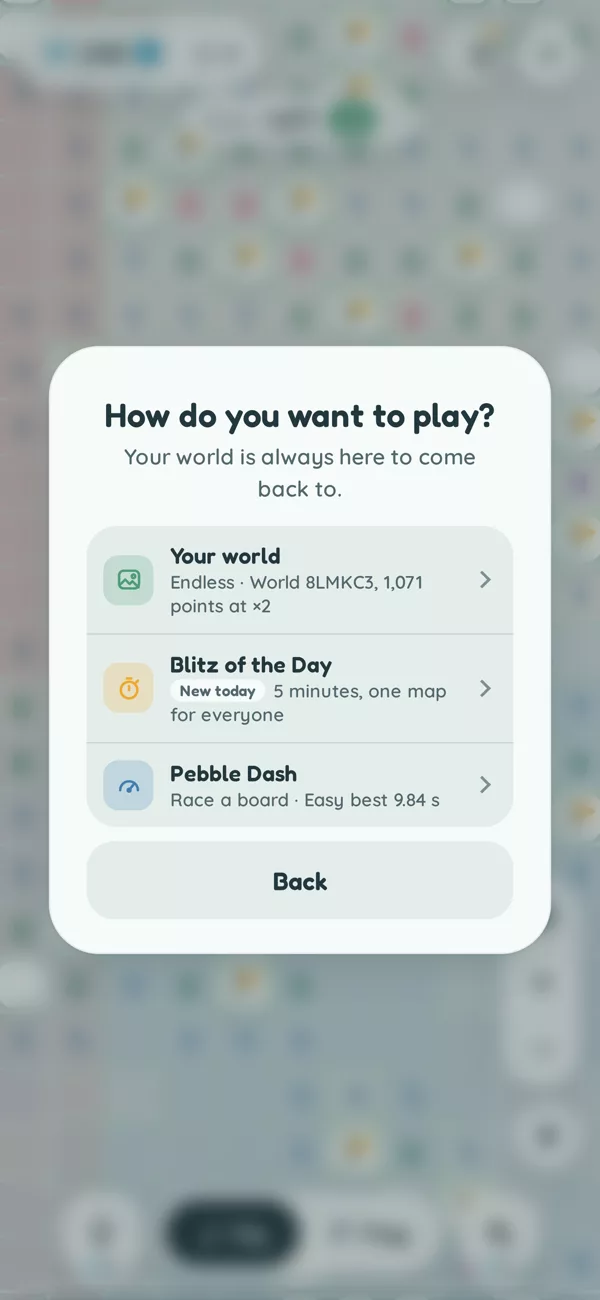
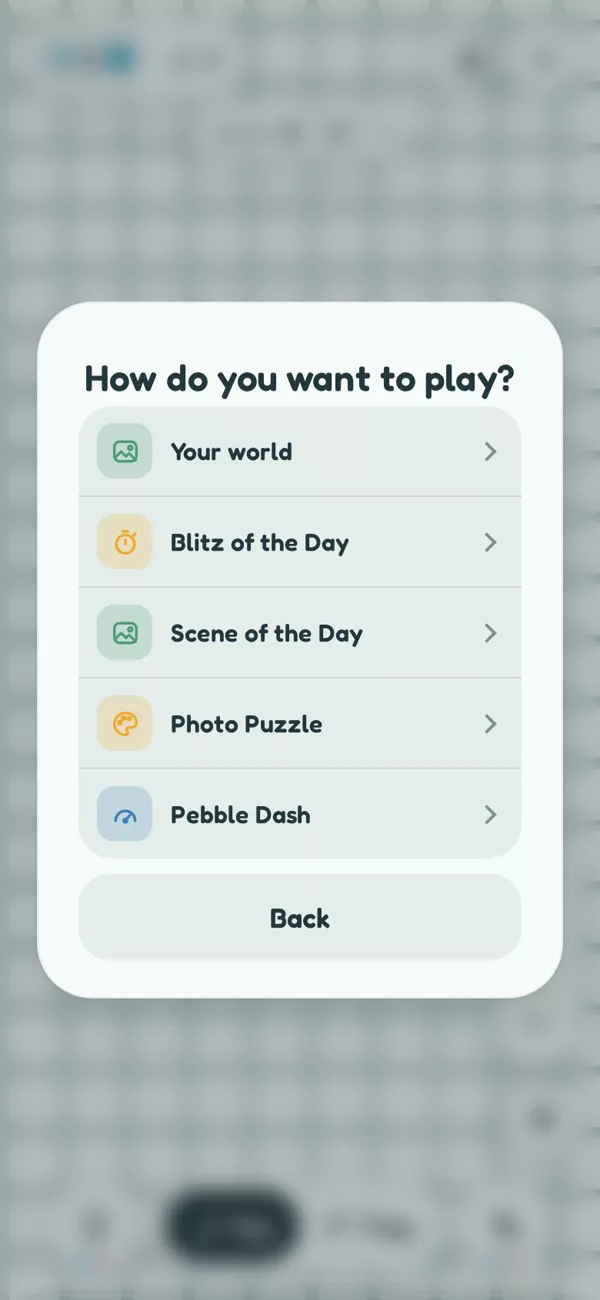
Website for the launch version (1.0.1, build 28): five ways to play, Scene of the Day and Photo Puzzle screens, iPhone and Android support; privacy covers Photo Puzzle, Android and the Android Blitz leaderboard, with a data-deletion section
Claude-Session: https://claude.ai/code/session_013hDwvzvNCT5dMjhZV7YZMb

diff --git a/index.html b/index.html
@@ -4,7 +4,7 @@
 <meta charset="utf-8">
 <meta name="viewport" content="width=device-width, initial-scale=1">
 <title>Pebblefield</title>
-<meta name="description" content="Pebblefield is calm, no-guessing Minesweeper that never runs out of ground. Every tile you clear paints part of a hidden 8-bit scene. Dig your endless world, race the clock in Pebble Dash, or take on the Blitz of the Day.">
+<meta name="description" content="Pebblefield is calm, no-guessing Minesweeper that never runs out of ground. Every tile you clear paints part of a hidden 8-bit scene. Dig your endless world, take on the Blitz of the Day, paint the Scene of the Day, turn your own photo into a puzzle, or race the clock in Pebble Dash. For iPhone and Android.">
 <link rel="icon" type="image/svg+xml" href="icon.svg">
 <link rel="apple-touch-icon" href="apple-touch-icon.png">
 <link rel="stylesheet" href="fonts/fonts.css">
@@ -40,7 +40,7 @@
   .screens figcaption b{ display:block; font:600 20px/1.2 Fredoka, ui-rounded, system-ui, sans-serif; }
   .screens figcaption span{ color:var(--muted); font-size:14px; }
   .screens img{ display:block; width:100%; height:auto; border-radius:28px; border:6px solid var(--ink); box-shadow:0 14px 30px rgba(20,40,45,.25); background:var(--card); }
-  /* on wide screens the row runs the full window width, so all six fit side by side */
+  /* on wide screens the row runs the full window width */
   @media (min-width:900px){ .screens{ margin-left:calc(50% - 50vw); margin-right:calc(50% - 50vw); padding-left:24px; padding-right:24px; justify-content:safe center; } .screens figure{ flex-basis:180px; } }
   /* scenes: the real pixel-art scenes, a few kept as a mystery */
   .wall{ display:grid; grid-template-columns:repeat(5,1fr); gap:8px; }
@@ -63,7 +63,7 @@
     <img src="icon.svg" alt="Pebblefield app icon">
     <h1 class="wordmark">Pebblefield</h1>
     <p class="tagline">Calm Minesweeper that<br>Paints a Hidden Picture.</p>
-    <span class="badge">Coming soon to the App Store</span>
+    <span class="badge">Coming soon to the App Store and Google Play</span>
     <nav class="social" aria-label="Pebblefield on social media">
       <a href="https://www.tiktok.com/@pebblefield" rel="noopener"><svg viewBox="0 0 24 24" fill="none" stroke="currentColor" stroke-width="2.1" stroke-linecap="round" stroke-linejoin="round"><path d="M13.5 3v11.6a3.6 3.6 0 1 1-3.6-3.6"/><path d="M13.5 3c.5 2.7 2.4 4.5 5.2 4.8"/></svg><span>@pebblefield</span></a>
       <a href="https://www.instagram.com/pebblefieldinfinite/" rel="noopener"><svg viewBox="0 0 24 24" fill="none" stroke="currentColor" stroke-width="2.1" stroke-linecap="round" stroke-linejoin="round"><rect x="3.5" y="3.5" width="17" height="17" rx="5"/><circle cx="12" cy="12" r="4"/><circle cx="17.2" cy="6.8" r="0.6" fill="currentColor"/></svg><span>@pebblefieldinfinite</span></a>
@@ -71,7 +71,7 @@
   </section>
 
   <section class="screens" aria-label="Screens from the game">
-    <figure><figcaption><b>Watch it paint</b><span>Every tile is a pixel</span></figcaption><img src="shots/1.webp" alt="Watch it paint" loading="lazy" width="600" height="1300"></figure><figure><figcaption><b>Three ways to play</b><span>Endless, Blitz and Dash</span></figcaption><img src="shots/2.webp" alt="Three ways to play" loading="lazy" width="600" height="1300"></figure><figure><figcaption><b>Never guess</b><span>Stuck? A safe tile glows</span></figcaption><img src="shots/3.webp" alt="Never guess" loading="lazy" width="600" height="1300"></figure><figure><figcaption><b>Race the clock</b><span>Pebble Dash time trials</span></figcaption><img src="shots/4.webp" alt="Race the clock" loading="lazy" width="600" height="1300"></figure><figure><figcaption><b>Blitz every day</b><span>One map for everyone</span></figcaption><img src="shots/5.webp" alt="Blitz every day" loading="lazy" width="600" height="1300"></figure><figure><figcaption><b>Make it yours</b><span>Five style sets, Retro too</span></figcaption><img src="shots/6.webp" alt="Make it yours" loading="lazy" width="600" height="1300"></figure>
+    <figure><figcaption><b>Watch it paint</b><span>Every tile is a pixel</span></figcaption><img src="shots/1.webp" alt="Watch it paint" loading="lazy" width="600" height="1300"></figure><figure><figcaption><b>Five ways to play</b><span>Pick your mood today</span></figcaption><img src="shots/2.webp" alt="Five ways to play" loading="lazy" width="600" height="1300"></figure><figure><figcaption><b>A scene a day</b><span>One picture for all</span></figcaption><img src="shots/7.webp" alt="Scene of the Day" loading="lazy" width="600" height="1300"></figure><figure><figcaption><b>Paint your photo</b><span>It stays on your phone</span></figcaption><img src="shots/8.webp" alt="Photo Puzzle" loading="lazy" width="600" height="1300"></figure><figure><figcaption><b>Never guess</b><span>Stuck? A safe tile glows</span></figcaption><img src="shots/3.webp" alt="Never guess" loading="lazy" width="600" height="1300"></figure><figure><figcaption><b>Race the clock</b><span>Pebble Dash time trials</span></figcaption><img src="shots/4.webp" alt="Race the clock" loading="lazy" width="600" height="1300"></figure><figure><figcaption><b>Blitz every day</b><span>One map for everyone</span></figcaption><img src="shots/5.webp" alt="Blitz every day" loading="lazy" width="600" height="1300"></figure><figure><figcaption><b>Make it yours</b><span>Five style sets, Retro too</span></figcaption><img src="shots/6.webp" alt="Make it yours" loading="lazy" width="600" height="1300"></figure>
   </section>
 
   <section class="card scenes-card">
@@ -79,25 +79,25 @@
     <div class="wall"><img class="scene" src="scenes/dawn-lake.png" alt="Dawn Lake" title="Dawn Lake" loading="lazy" width="48" height="48"><img class="scene" src="scenes/bamboo-grove.png" alt="Bamboo Grove" title="Bamboo Grove" loading="lazy" width="48" height="48"><img class="scene" src="scenes/blossom-hill.png" alt="Blossom Hill" title="Blossom Hill" loading="lazy" width="48" height="48"><span class="scene q" aria-hidden="true">?</span><img class="scene" src="scenes/moonlit-pagoda.png" alt="Moonlit Pagoda" title="Moonlit Pagoda" loading="lazy" width="48" height="48"><img class="scene" src="scenes/rice-terraces.png" alt="Rice Terraces" title="Rice Terraces" loading="lazy" width="48" height="48"><img class="scene" src="scenes/sand-garden.png" alt="Sand Garden" title="Sand Garden" loading="lazy" width="48" height="48"><img class="scene" src="scenes/sunset-sea.png" alt="Sunset Sea" title="Sunset Sea" loading="lazy" width="48" height="48"><span class="scene q" aria-hidden="true">?</span><img class="scene" src="scenes/maple-valley.png" alt="Maple Valley" title="Maple Valley" loading="lazy" width="48" height="48"><img class="scene" src="scenes/lantern-festival.png" alt="Lantern Festival" title="Lantern Festival" loading="lazy" width="48" height="48"><img class="scene" src="scenes/misty-tea-fields.png" alt="Misty Tea Fields" title="Misty Tea Fields" loading="lazy" width="48" height="48"><span class="scene q" aria-hidden="true">?</span><img class="scene" src="scenes/wisteria-bridge.png" alt="Wisteria Bridge" title="Wisteria Bridge" loading="lazy" width="48" height="48"><img class="scene" src="scenes/hidden-waterfall.png" alt="Hidden Waterfall" title="Hidden Waterfall" loading="lazy" width="48" height="48"><img class="scene" src="scenes/sacred-mountain.png" alt="Sacred Mountain" title="Sacred Mountain" loading="lazy" width="48" height="48"><span class="scene q" aria-hidden="true">?</span><img class="scene" src="scenes/snowy-hot-spring.png" alt="Snowy Hot Spring" title="Snowy Hot Spring" loading="lazy" width="48" height="48"><img class="scene" src="scenes/firefly-meadow.png" alt="Firefly Meadow" title="Firefly Meadow" loading="lazy" width="48" height="48"><span class="scene q" aria-hidden="true">?</span><img class="scene" src="scenes/rainy-rooftops.png" alt="Rainy Rooftops" title="Rainy Rooftops" loading="lazy" width="48" height="48"><img class="scene" src="scenes/sea-of-clouds.png" alt="Sea of Clouds" title="Sea of Clouds" loading="lazy" width="48" height="48"><span class="scene q" aria-hidden="true">?</span><img class="scene" src="scenes/temple-steps.png" alt="Temple Steps" title="Temple Steps" loading="lazy" width="48" height="48"><img class="scene" src="scenes/lighthouse-cove.png" alt="Lighthouse Cove" title="Lighthouse Cove" loading="lazy" width="48" height="48"></div>
   </section>
 
-  <ul class="facts"><li><svg viewBox="0 0 24 24" fill="none" stroke="currentColor" stroke-width="2.2" stroke-linecap="round" stroke-linejoin="round"><path d="M12 3l7.5 3v5.5c0 4.5-3.2 8-7.5 9.5-4.3-1.5-7.5-5-7.5-9.5V6z"/><path d="M9 12l2.2 2.2L15.5 10"/></svg><b>No guessing</b></li><li><svg viewBox="0 0 24 24" fill="none" stroke="currentColor" stroke-width="2.2" stroke-linecap="round" stroke-linejoin="round"><rect x="3" y="3" width="7.5" height="7.5" rx="2"/><rect x="13.5" y="3" width="7.5" height="7.5" rx="2"/><rect x="3" y="13.5" width="7.5" height="7.5" rx="2"/><circle cx="17.25" cy="17.25" r="3.75"/></svg><b>Three ways to play</b></li><li><svg viewBox="0 0 24 24" fill="none" stroke="currentColor" stroke-width="2.3" stroke-linejoin="round"><rect x="3" y="5" width="18" height="14" rx="4"/><path d="M10 9.5v5l4.5-2.5z" fill="currentColor"/></svg><b>Ads only if you choose</b></li><li><svg viewBox="0 0 24 24" fill="none" stroke="currentColor" stroke-width="2.2" stroke-linecap="round" stroke-linejoin="round"><path d="M4 12a8 8 0 1 0 2.4-5.7"/><path d="M4 4.5v4h4"/></svg><b>Saves to iCloud</b></li></ul>
+  <ul class="facts"><li><svg viewBox="0 0 24 24" fill="none" stroke="currentColor" stroke-width="2.2" stroke-linecap="round" stroke-linejoin="round"><path d="M12 3l7.5 3v5.5c0 4.5-3.2 8-7.5 9.5-4.3-1.5-7.5-5-7.5-9.5V6z"/><path d="M9 12l2.2 2.2L15.5 10"/></svg><b>No guessing</b></li><li><svg viewBox="0 0 24 24" fill="none" stroke="currentColor" stroke-width="2.2" stroke-linecap="round" stroke-linejoin="round"><rect x="3" y="3" width="7.5" height="7.5" rx="2"/><rect x="13.5" y="3" width="7.5" height="7.5" rx="2"/><rect x="3" y="13.5" width="7.5" height="7.5" rx="2"/><circle cx="17.25" cy="17.25" r="3.75"/></svg><b>Five ways to play</b></li><li><svg viewBox="0 0 24 24" fill="none" stroke="currentColor" stroke-width="2.3" stroke-linejoin="round"><rect x="3" y="5" width="18" height="14" rx="4"/><path d="M10 9.5v5l4.5-2.5z" fill="currentColor"/></svg><b>Ads only if you choose</b></li><li><svg viewBox="0 0 24 24" fill="none" stroke="currentColor" stroke-width="2.2" stroke-linecap="round" stroke-linejoin="round"><path d="M4 12a8 8 0 1 0 2.4-5.7"/><path d="M4 4.5v4h4"/></svg><b>Back up your progress</b></li></ul>
 
   <section class="card" id="support">
     <h2>Support</h2>
     <details>
       <summary>How do I restore my Commuter Pass?</summary>
-      <p>Open the menu (the two lines at the top right) and tap Restore purchases. It is also at the bottom of the shop. Use the same Apple ID you bought it with. Glints and Multiplier Savers are not restored this way: they stay with your progress, which iCloud keeps safe.</p>
+      <p>Open the menu (the two lines at the top right) and tap Restore purchases. It is also at the bottom of the shop. Use the same Apple ID (iPhone) or Google account (Android) you bought it with. Glints and Multiplier Savers are not restored this way: they stay with your progress (see moving to a new phone below).</p>
     </details>
     <details>
       <summary>How do I cancel my Commuter Pass?</summary>
-      <p>Subscriptions are managed by Apple. Open the Settings app, tap your name, then Subscriptions, then Pebblefield. Cancel at least 24 hours before the month ends to avoid the next charge. After you cancel, your pass keeps working until the end of the month you have already paid for.</p>
+      <p>On iPhone, subscriptions are managed by Apple: open the Settings app, tap your name, then Subscriptions, then Pebblefield. On Android, they are managed by Google Play: open the Play Store app, tap your profile picture, then Payments and subscriptions, then Subscriptions, then Pebblefield. Cancel at least 24 hours before the month ends to avoid the next charge. After you cancel, your pass keeps working until the end of the month you have already paid for.</p>
     </details>
     <details>
       <summary>What does the Commuter Pass include?</summary>
       <p>No ads: every bonus that would play an ad arrives instantly, including the last save of a multiplier past x20. You also get 10 Glints a day and the Night Train mood. The game itself is the same with or without it.</p>
     </details>
     <details>
-      <summary>How do I move my progress to a new iPhone?</summary>
-      <p>If you are signed in to iCloud, your progress follows you: open Pebblefield on the new iPhone and choose which progress to keep when it asks. Glints and Multiplier Savers you bought always come with you, whichever you choose. You can also open the menu, tap Back up progress, copy the code, and paste it into Restore on the new phone. A Commuter Pass comes back with Restore purchases.</p>
+      <summary>How do I move my progress to a new phone?</summary>
+      <p>On iPhone, if you are signed in to iCloud, your progress follows you: open Pebblefield on the new iPhone and choose which progress to keep when it asks. Glints and Multiplier Savers you bought always come with you, whichever you choose. On any phone, including from iPhone to Android or back, open the menu, tap Back up progress, copy the code, and paste it into Restore on the new phone. A Commuter Pass comes back with Restore purchases on the same kind of phone.</p>
     </details>
     <details>
       <summary>What is a Multiplier Saver?</summary>
@@ -109,11 +109,19 @@
     </details>
     <details>
       <summary>How does the Blitz of the Day work?</summary>
-      <p>Everyone plays the same map with the same twist for five minutes. Your first run each day is the ranked one; replays are practice. During a run, the next place on the board is shown under the timer. The top 5, and everyone in the top 10%, win Glints, paid the next time you open the game. A new Blitz starts every day at midnight Singapore time (16:00 UTC). Rankings use Game Center, so sign in to Game Center to appear on the leaderboard.</p>
+      <p>Everyone plays the same map with the same twist for five minutes. Your first run each day is the ranked one; replays are practice. During a run, the next place on the board is shown under the timer. The top 5, and everyone in the top 10%, win Glints, paid the next time you open the game. A new Blitz starts every day at midnight Singapore time (16:00 UTC). On iPhone, rankings use Game Center, so sign in to Game Center to appear on the leaderboard. On Android, rankings and prizes arrive in an update soon; until then you play the same daily map and earn Glints for taking part.</p>
     </details>
     <details>
       <summary>How do Pebble Dash times work?</summary>
-      <p>Pebble Dash is classic Minesweeper against the clock, in four sizes from Easy to Extreme. Every board can be solved without guessing. The clock starts after your first tap and stops when the last safe tile opens; a mine ends the run. Each size has its own Game Center board of best times, where equal times are ranked by the board's size (3BV). Your first clear of each size each day earns 5 Glints.</p>
+      <p>Pebble Dash is classic Minesweeper against the clock, in four sizes from Easy to Extreme. Every board can be solved without guessing. The clock starts after your first tap and stops when the last safe tile opens; a mine ends the run. On iPhone, each size has its own Game Center board of best times, where equal times are ranked by the board's size (3BV); on Android you chase your own best times. Your first clear of each size each day earns 5 Glints.</p>
+    </details>
+    <details>
+      <summary>How does the Scene of the Day work?</summary>
+      <p>Every day there is a new hidden picture, the same for everyone. Start on the glowing pebble and clear the board; the picture shows through as you dig, and paints itself in full when you finish. A mine adds 20 seconds and the puzzle carries on. Finishing earns 15 Glints, 5 more with no mine, and a growing bonus for a daily streak. Missed a day? Open All days to play any day since launch. A new scene starts at midnight Singapore time.</p>
+    </details>
+    <details>
+      <summary>How does the Photo Puzzle work?</summary>
+      <p>Pick a photo, drag to frame it, and Pebblefield turns it into pixel art hidden under a board. Choose Quick, Detailed or Portrait for the size, and Soft or True colour. Clear the board to paint your photo; a mine adds 10 seconds. One new photo every 24 hours is free (two with the Commuter Pass), then 50 Glints each, and replays are always free. Your photos stay on your phone: they are never uploaded.</p>
     </details>
     <details>
       <summary>Why did part of the field lock?</summary>
@@ -121,7 +129,7 @@
     </details>
     <details>
       <summary>How do I change my ad privacy choices?</summary>
-      <p>Where the law requires it, the menu has an Ad privacy choices button. You can also turn off tracking for all apps in the Settings app under Privacy &amp; Security, then Tracking.</p>
+      <p>Where the law requires it, the menu has an Ad privacy choices button. On iPhone, you can also turn off tracking for all apps in the Settings app under Privacy &amp; Security, then Tracking. On Android, open the Settings app, then Privacy (or Google), then Ads, to reset or delete your advertising ID.</p>
     </details>
     <details>
       <summary>Something else?</summary>

diff --git a/privacy.html b/privacy.html
@@ -33,27 +33,33 @@
 <div class="card">
   <p class="muted"><a href="./">← Pebblefield</a></p>
   <h1>Pebblefield Privacy Policy</h1>
-  <p class="muted">Effective 3 October 2026</p>
+  <p class="muted">Effective 12 October 2026</p>
 
-  <p>Pebblefield is a puzzle game for iPhone. This policy explains what information the game uses, why, and the choices you have. In short: there are no accounts, we do not collect your name or contact details, and we never sell your information. Data only leaves your device to save your progress to your own iCloud, rank your scores on Game Center, confirm purchases, show the ads you choose to watch, and (if you leave it on) send anonymous usage statistics.</p>
+  <p>Pebblefield is a puzzle game for iPhone and Android. This policy explains what information the game uses, why, and the choices you have. In short: there are no accounts, we do not collect your name or contact details, and we never sell your information. Data only leaves your device to back up your progress (your own iCloud, or Android's backup), rank your scores on the leaderboards, confirm purchases, show the ads you choose to watch, and (if you leave it on) send anonymous usage statistics. The photos you use in Photo Puzzle never leave your phone.</p>
 
   <h2>Who we are</h2>
   <p>Pebblefield is made by an independent developer. You can contact us at <a href="mailto:pebblefield@hotmail.com">pebblefield@hotmail.com</a>.</p>
 
   <h2>Information stored on your device</h2>
-  <p>Your game progress (your world, Glints, streaks, moods, achievements and settings) is saved on your iPhone. It is included in your normal iPhone backups. If you copy a backup code from the game, the code contains the same progress and goes wherever you choose to paste it.</p>
+  <p>Your game progress (your world, Glints, streaks, moods, achievements and settings) is saved on your phone. It is included in your phone's normal backups: iPhone backups, or Android's own app backup to your Google account if you have it turned on. If you copy a backup code from the game, the code contains the same progress and goes wherever you choose to paste it.</p>
 
-  <h2>iCloud</h2>
+  <h2>Photo Puzzle</h2>
+  <p>If you play Photo Puzzle, you choose a photo from your library (or take one, on iPhone). The game asks for permission first, and only sees the photo you pick. The framed photo and its pixel-art version are kept on your phone, in the game's own storage, so you can play them again and see them in your gallery. They are never uploaded or sent to us or anyone else. If you choose Share or save, the picture goes only where you send it. Deleting a photo in the game, or deleting the app, removes them.</p>
+
+  <h2>iCloud (iPhone)</h2>
   <p>If you are signed in to iCloud, Pebblefield saves a copy of your progress in your private iCloud storage so it can appear on your other Apple devices. This copy is stored by Apple in your iCloud account. We cannot see or access it. You can turn this off in the iPhone Settings app under your name, then iCloud.</p>
 
-  <h2>Game Center</h2>
+  <h2>Game Center (iPhone)</h2>
   <p>If you sign in to Game Center, your scores are sent to Apple's Game Center, where other players can see them on the leaderboards next to your Game Center nickname: your ranked Blitz of the Day score, the scores you bank (weekly and all-time boards), and your best Pebble Dash times (with the size of the board each time was set on). Game Center is run by Apple under <a href="https://www.apple.com/legal/privacy/" target="_blank" rel="noopener">Apple's privacy policy</a>. We only see the rankings that Game Center shows to every player. You can sign out in the iPhone Settings app under Game Center; the game works without it.</p>
 
+  <h2 id="leaderboard">Blitz of the Day leaderboard (Android)</h2>
+  <p>On Android, Blitz of the Day rankings come from our own leaderboard (arriving in an update). When you finish a ranked Blitz, your score is sent to it with a random player id made by the app and a generated name, such as "Quiet Heron 42", which other players see on the board. No account, email or real name is involved, and we do not keep your internet address. The leaderboard is hosted for us by Cloudflare. Scores are kept for 90 days and then deleted automatically.</p>
+
   <h2>Anonymous usage statistics</h2>
-  <p>If you leave "Share anonymous usage" on (in the game's Settings), the game sends anonymous signals about which features are used, such as finishing the tutorial or watching an optional ad, to TelemetryDeck, a privacy-focused analytics service based in the EU. They carry a random identifier created on your device, which TelemetryDeck hashes again, and never your name, Apple ID, location or device identifiers. They are not used for advertising or shared with anyone else. You can switch this off at any time in Settings. See <a href="https://telemetrydeck.com/privacy/" target="_blank" rel="noopener">TelemetryDeck's privacy policy</a>.</p>
+  <p>If you leave "Share anonymous usage" on (in the game's Settings), the game sends anonymous signals about which features are used, such as finishing the tutorial or watching an optional ad, to TelemetryDeck, a privacy-focused analytics service based in the EU. They carry a random identifier created on your device, which TelemetryDeck hashes again, and never your name, Apple ID, Google account, location or device identifiers. They are not used for advertising or shared with anyone else. You can switch this off at any time in Settings. See <a href="https://telemetrydeck.com/privacy/" target="_blank" rel="noopener">TelemetryDeck's privacy policy</a>.</p>
 
   <h2>Purchases</h2>
-  <p>Purchases are handled by Apple. We never receive your payment details. To confirm purchases and to know whether a Commuter Pass subscription is active, the game uses RevenueCat, which receives your purchase receipts from Apple along with a random identifier created for the app. It is not linked to your name or Apple ID. See <a href="https://www.revenuecat.com/privacy" target="_blank" rel="noopener">RevenueCat's privacy policy</a>.</p>
+  <p>Purchases are handled by Apple on iPhone and by Google Play on Android. We never receive your payment details. To confirm purchases and to know whether a Commuter Pass subscription is active, the game uses RevenueCat, which receives your purchase receipts from Apple or Google along with a random identifier created for the app. It is not linked to your name, Apple ID or Google account. See <a href="https://www.revenuecat.com/privacy" target="_blank" rel="noopener">RevenueCat's privacy policy</a>.</p>
 
   <h2>Ads</h2>
   <p>Pebblefield only shows an ad when you choose to watch one for a bonus. Ads are provided by Google AdMob. When an ad is requested, Google may collect:</p>
@@ -61,34 +67,38 @@
     <li>information about your device, such as its model, operating system and language;</li>
     <li>your IP address, which gives an approximate location;</li>
     <li>how you interact with the ad;</li>
-    <li>your device's advertising identifier, but only if you allow tracking when iPhone asks.</li>
+    <li>your device's advertising identifier: on iPhone only if you allow tracking when iPhone asks; on Android, the advertising ID, which you can reset or delete in your phone's settings.</li>
   </ul>
-  <p>Google uses this to show ads, measure them, and prevent fraud. If you are in the European Economic Area, the UK or Switzerland, the game asks for your consent before any ad is requested, and you can change your choice at any time from the game's menu under "Ad privacy choices". You can also turn off tracking for all apps in the iPhone Settings app under Privacy &amp; Security, then Tracking. See <a href="https://policies.google.com/technologies/partner-sites" target="_blank" rel="noopener">how Google uses information from apps that use its services</a>.</p>
+  <p>Google uses this to show ads, measure them, and prevent fraud. If you are in the European Economic Area, the UK or Switzerland, the game asks for your consent before any ad is requested, and you can change your choice at any time from the game's menu under "Ad privacy choices". On iPhone you can also turn off tracking for all apps in the Settings app under Privacy &amp; Security, then Tracking; on Android, open the Settings app, then Privacy (or Google), then Ads. See <a href="https://policies.google.com/technologies/partner-sites" target="_blank" rel="noopener">how Google uses information from apps that use its services</a>.</p>
 
   <h2>Summary</h2>
   <table>
     <thead><tr><th>What</th><th>Who receives it</th><th>Why</th></tr></thead>
     <tbody>
-      <tr><td>Game progress</td><td>Your device, and your own iCloud storage</td><td>To save and sync your game</td></tr>
-      <tr><td>Blitz scores, banked scores, Pebble Dash times and your Game Center nickname (only if you sign in to Game Center)</td><td>Apple Game Center, and other players on the leaderboards</td><td>To rank players on the leaderboards</td></tr>
+      <tr><td>Game progress</td><td>Your device, and your own iCloud storage or Android backup</td><td>To save and sync your game</td></tr>
+      <tr><td>Photos you use in Photo Puzzle</td><td>Only your device</td><td>To make and replay your photo puzzles</td></tr>
+      <tr><td>Blitz scores, banked scores, Pebble Dash times and your Game Center nickname (iPhone, only if you sign in to Game Center)</td><td>Apple Game Center, and other players on the leaderboards</td><td>To rank players on the leaderboards</td></tr>
+      <tr><td>Blitz of the Day scores, a random player id and a generated name (Android)</td><td>Our leaderboard (hosted by Cloudflare), and other players on the board</td><td>To rank players and pay the daily prizes</td></tr>
       <tr><td>Anonymous usage signals with a random identifier (only while "Share anonymous usage" is on)</td><td>TelemetryDeck</td><td>To learn which features are used and improve the game</td></tr>
       <tr><td>Purchase receipts and a random app identifier</td><td>Apple, RevenueCat</td><td>To confirm purchases and subscriptions</td></tr>
-      <tr><td>Device information, IP address, ad interactions, advertising identifier (only with your permission)</td><td>Google AdMob</td><td>To show and measure the ads you choose to watch</td></tr>
+      <tr><td>Device information, IP address, ad interactions, advertising identifier (on iPhone only with your permission)</td><td>Google AdMob</td><td>To show and measure the ads you choose to watch</td></tr>
     </tbody>
   </table>
 
   <h2>What we do not do</h2>
   <ul>
-    <li>We do not ask for or collect your name, email address, contacts, photos or precise location.</li>
+    <li>We do not ask for or collect your name, email address, contacts or precise location, and your photos never leave your phone.</li>
     <li>We do not sell your information.</li>
-    <li>We do not track you across other companies' apps or websites. Ads only use your advertising identifier if you allow tracking when iPhone asks.</li>
+    <li>We do not track you across other companies' apps or websites. On iPhone, ads only use your advertising identifier if you allow tracking when iPhone asks.</li>
   </ul>
 
   <h2>Children</h2>
   <p>Pebblefield is not directed at children under 13, and we do not knowingly collect information from them.</p>
 
-  <h2>Your rights</h2>
-  <p>Because we do not hold personal information about you, there is usually nothing for us to access or delete. Deleting the app removes the progress saved on your device. To remove the iCloud copy, go to the iPhone Settings app, then your name, iCloud, Manage Storage, Pebblefield. Turning off "Share anonymous usage" stops the usage statistics. For information held by Apple, Google, RevenueCat or TelemetryDeck, see their policies linked above, or contact us and we will help.</p>
+  <h2 id="delete">Your rights, and deleting your data</h2>
+  <p>Because we do not hold personal information about you, there is usually nothing for us to access or delete. Deleting the app removes the progress and photos saved on your device. To remove the iCloud copy, go to the iPhone Settings app, then your name, iCloud, Manage Storage, Pebblefield. Turning off "Share anonymous usage" stops the usage statistics.</p>
+  <p><b>Leaderboard scores (Android).</b> These are deleted automatically after 90 days. To have yours removed sooner, email <a href="mailto:pebblefield@hotmail.com">pebblefield@hotmail.com</a> with your player name (shown under the Blitz board in the game) and we will delete your scores within 30 days.</p>
+  <p>For information held by Apple, Google, RevenueCat or TelemetryDeck, see their policies linked above, or contact us and we will help.</p>
 
   <h2>Changes</h2>
   <p>If this policy changes, we will update this page and its effective date.</p>

diff --git a/README.md b/README.md
@@ -3,7 +3,14 @@
 The public pages for the Pebblefield app: home and support (`index.html`) and the privacy policy (`privacy.html`).
 Published with GitHub Pages. The game itself lives in a separate, private repository.
 
-Images: `shots/` holds six real game screens (WebP, made from the game repository's `store/raw` captures: painting, home screen, rescue, Pebble Dash, Blitz, style sets; updated 2026-10-03 for v1.0) and
+The site matches the launch version, **1.0.1 (iPhone build 28, game commit `b03b3b4`; Android the same code)**, updated
+2026-10-12: five ways to play (with Scene of the Day and Photo Puzzle), support for iPhone and Android, and a privacy
+policy covering Photo Puzzle, Android and the Android Blitz leaderboard (`privacy.html#delete` is the data-deletion
+link for Google Play).
+
+Images: `shots/` holds eight real game screens (WebP, 600 x 1300): 1 painting, 2 the five ways to play, 3 rescue,
+4 Pebble Dash, 5 Blitz, 6 style sets (from the game's `store/raw` captures for v1.0), 7 Scene of the Day and 8 Photo
+Puzzle (captured from build 28's code on 2026-10-12; the photo is a drawn stand-in, not a real one), and
 `scenes/` the 25 painting scenes as 48 x 48 pixel art, exported from the game; both are shown on the home page.
 
 ## Launch week (`launch.json`)
